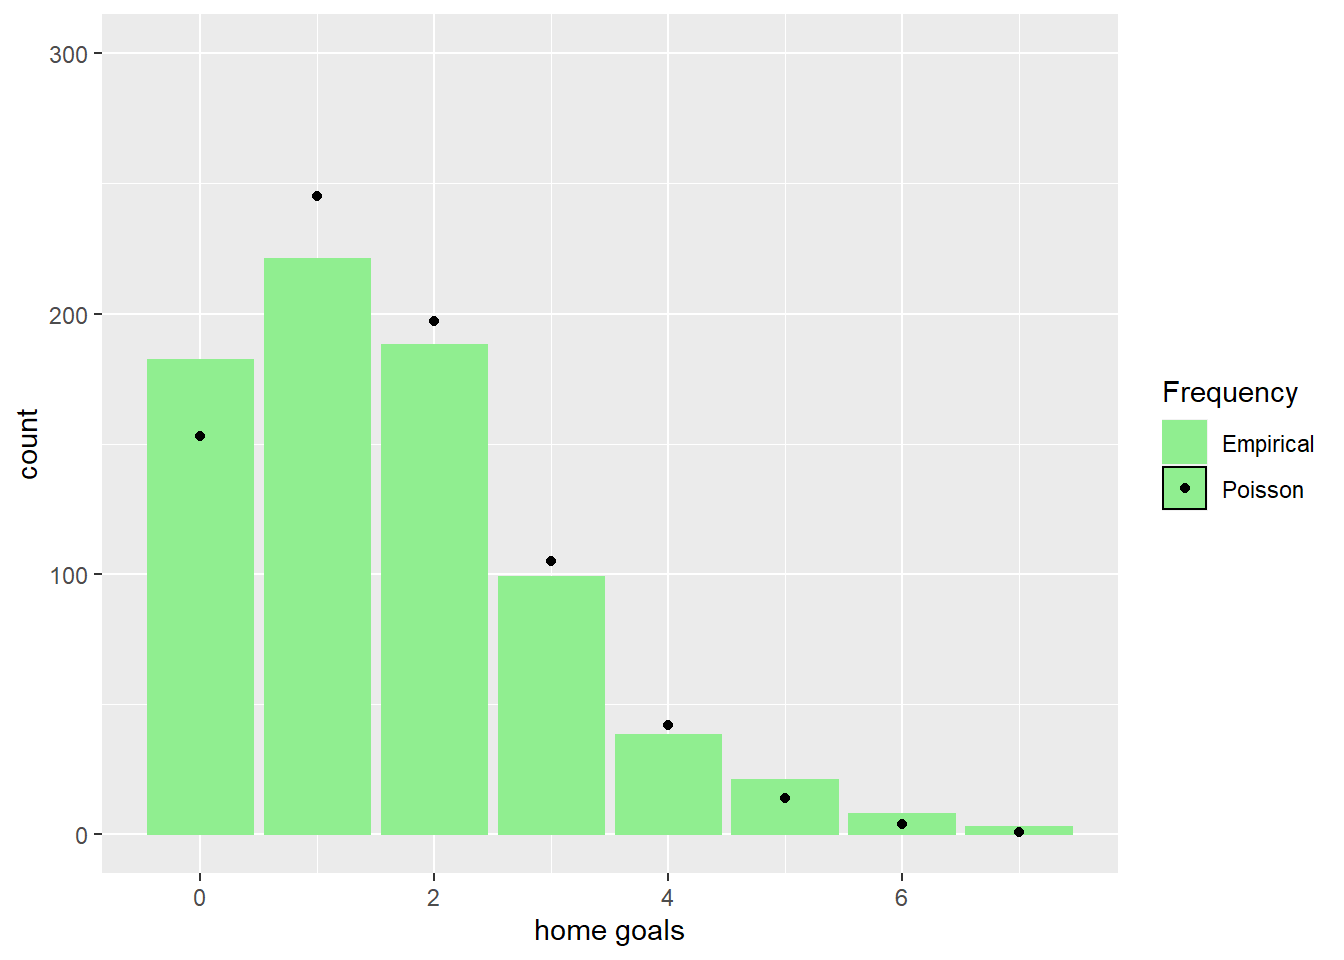
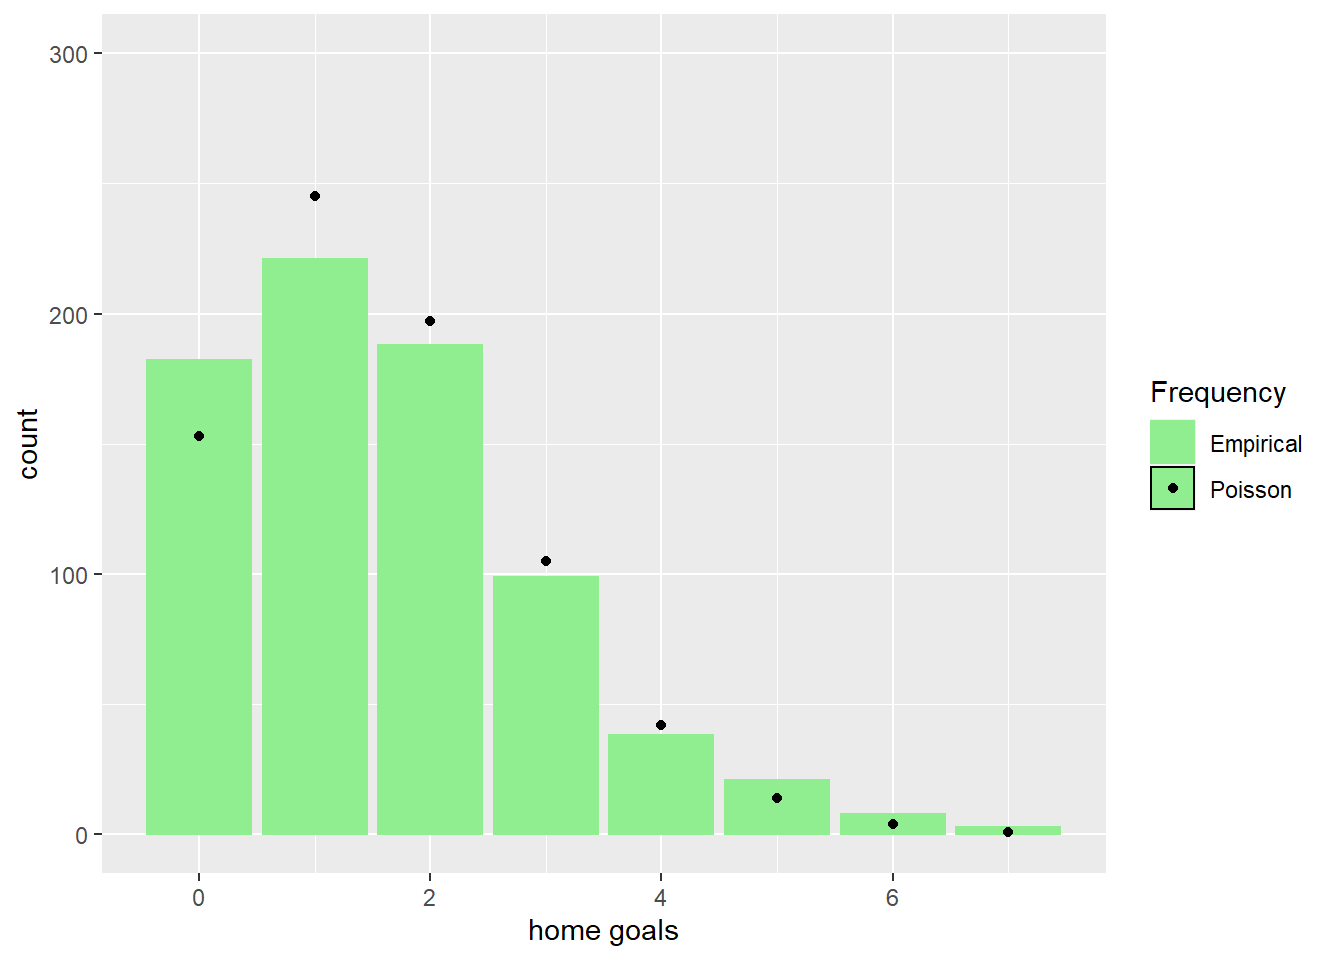
Added Negative Binomial fit.

diff --git a/Spanish-league.html b/Spanish-league.html
@@ -451,24 +451,27 @@ code span.wa { color: #60a0b0; font-weight: bold; font-style: italic; } /* Warni
 </section>
 <section id="histograms" class="level3">
 <h3 class="anchored" data-anchor-id="histograms">Histograms</h3>
+<p>Here we display the frequencies of the number of home and away goals for all football matches. This information can be used to model the probability distribution of the goals scored by the average team in the tournament. We fit a Poisson and a Negative Binomial distribution to the empirical frequencies. We observe that the Negative Binomial distribution provides a better fit, but that is hardly surprising as Poisson is a one-parameter family, while the Negative Binomial is a two-parameter family of distributions.</p>
 <div class="panel-tabset">
-<ul class="nav nav-tabs" role="tablist"><li class="nav-item" role="presentation"><a class="nav-link active" id="tabset-2-1-tab" data-bs-toggle="tab" data-bs-target="#tabset-2-1" role="tab" aria-controls="tabset-2-1" aria-selected="true">Home Goals</a></li><li class="nav-item" role="presentation"><a class="nav-link" id="tabset-2-2-tab" data-bs-toggle="tab" data-bs-target="#tabset-2-2" role="tab" aria-controls="tabset-2-2" aria-selected="false">Away Goals</a></li></ul>
+<ul class="nav nav-tabs" role="tablist"><li class="nav-item" role="presentation"><a class="nav-link active" id="tabset-2-1-tab" data-bs-toggle="tab" data-bs-target="#tabset-2-1" role="tab" aria-controls="tabset-2-1" aria-selected="true">Home Goals</a></li><li class="nav-item" role="presentation"><a class="nav-link" id="tabset-2-2-tab" data-bs-toggle="tab" data-bs-target="#tabset-2-2" role="tab" aria-controls="tabset-2-2" aria-selected="false">Away Goals</a></li><li class="nav-item" role="presentation"><a class="nav-link" id="tabset-2-3-tab" data-bs-toggle="tab" data-bs-target="#tabset-2-3" role="tab" aria-controls="tabset-2-3" aria-selected="false">Home Goals</a></li><li class="nav-item" role="presentation"><a class="nav-link" id="tabset-2-4-tab" data-bs-toggle="tab" data-bs-target="#tabset-2-4" role="tab" aria-controls="tabset-2-4" aria-selected="false">Away Goals</a></li></ul>
 <div class="tab-content">
 <div id="tabset-2-1" class="tab-pane active" role="tabpanel" aria-labelledby="tabset-2-1-tab">
 <div class="cell">
 <details>
 <summary>Code</summary>
-<div class="sourceCode cell-code" id="cb18"><pre class="sourceCode r code-with-copy"><code class="sourceCode r"><span id="cb18-1"><a href="#cb18-1" aria-hidden="true" tabindex="-1"></a>g1 <span class="ot">=</span> <span class="fu">ggplot</span>(<span class="at">data =</span> x, <span class="fu">aes</span>(hscore, <span class="at">color =</span> <span class="st">"Empirical"</span>)) <span class="sc">+</span> </span>
+<div class="sourceCode cell-code" id="cb18"><pre class="sourceCode r code-with-copy"><code class="sourceCode r"><span id="cb18-1"><a href="#cb18-1" aria-hidden="true" tabindex="-1"></a>g1 <span class="ot">=</span> <span class="fu">ggplot</span>(<span class="at">data =</span> x, <span class="fu">aes</span>(hscore, <span class="at">color =</span> <span class="st">"Empirical  "</span>)) <span class="sc">+</span> </span>
 <span id="cb18-2"><a href="#cb18-2" aria-hidden="true" tabindex="-1"></a>  <span class="fu">geom_bar</span>(<span class="at">fill =</span> <span class="st">"lightgreen"</span>) <span class="sc">+</span> <span class="fu">labs</span>(<span class="at">x =</span> <span class="st">"home goals"</span>) <span class="sc">+</span></span>
 <span id="cb18-3"><a href="#cb18-3" aria-hidden="true" tabindex="-1"></a>  <span class="fu">scale_y_continuous</span>(<span class="at">limits =</span> <span class="fu">c</span>(<span class="dv">0</span>,<span class="dv">300</span>))</span>
 <span id="cb18-4"><a href="#cb18-4" aria-hidden="true" tabindex="-1"></a></span>
 <span id="cb18-5"><a href="#cb18-5" aria-hidden="true" tabindex="-1"></a>fit1 <span class="ot">=</span> MASS<span class="sc">::</span><span class="fu">fitdistr</span>(x<span class="sc">$</span>hscore, <span class="st">"poisson"</span>)</span>
 <span id="cb18-6"><a href="#cb18-6" aria-hidden="true" tabindex="-1"></a>hscore_fit <span class="ot">=</span> (<span class="fu">dpois</span>(<span class="dv">0</span><span class="sc">:</span><span class="dv">7</span>, fit1<span class="sc">$</span>estimate) <span class="sc">*</span> <span class="fu">nrow</span>(x)) <span class="sc">|&gt;</span> <span class="fu">round</span>()</span>
 <span id="cb18-7"><a href="#cb18-7" aria-hidden="true" tabindex="-1"></a></span>
-<span id="cb18-8"><a href="#cb18-8" aria-hidden="true" tabindex="-1"></a>g1 <span class="sc">+</span> <span class="fu">geom_point</span>(<span class="at">data =</span> <span class="fu">data.frame</span>(<span class="at">goals =</span> <span class="dv">0</span><span class="sc">:</span><span class="dv">7</span>, <span class="at">count =</span> hscore_fit), <span class="fu">aes</span>(goals, count, <span class="at">color =</span> <span class="st">"Poisson"</span>)) <span class="sc">+</span></span>
-<span id="cb18-9"><a href="#cb18-9" aria-hidden="true" tabindex="-1"></a>  <span class="fu">scale_color_manual</span>(<span class="at">name=</span><span class="st">'Frequency'</span>,</span>
-<span id="cb18-10"><a href="#cb18-10" aria-hidden="true" tabindex="-1"></a>                     <span class="at">breaks=</span><span class="fu">c</span>(<span class="st">'Empirical'</span>, <span class="st">'Poisson'</span>),</span>
-<span id="cb18-11"><a href="#cb18-11" aria-hidden="true" tabindex="-1"></a>                     <span class="at">values=</span><span class="fu">c</span>(<span class="st">'Empirical'</span> <span class="ot">=</span> <span class="st">'lightgreen'</span>, <span class="st">'Poisson'</span> <span class="ot">=</span> <span class="st">'black'</span>))</span></code><button title="Copy to Clipboard" class="code-copy-button"><i class="bi"></i></button></pre></div>
+<span id="cb18-8"><a href="#cb18-8" aria-hidden="true" tabindex="-1"></a></span>
+<span id="cb18-9"><a href="#cb18-9" aria-hidden="true" tabindex="-1"></a>g1 <span class="ot">=</span> g1 <span class="sc">+</span> <span class="fu">geom_point</span>(<span class="at">data =</span> <span class="fu">data.frame</span>(<span class="at">goals =</span> <span class="dv">0</span><span class="sc">:</span><span class="dv">7</span>, <span class="at">count =</span> hscore_fit), <span class="fu">aes</span>(goals, count, <span class="at">color =</span> <span class="st">"Poisson"</span>)) </span>
+<span id="cb18-10"><a href="#cb18-10" aria-hidden="true" tabindex="-1"></a></span>
+<span id="cb18-11"><a href="#cb18-11" aria-hidden="true" tabindex="-1"></a>g1 <span class="sc">+</span> <span class="fu">scale_color_manual</span>(<span class="at">name=</span><span class="st">'Frequency'</span>,</span>
+<span id="cb18-12"><a href="#cb18-12" aria-hidden="true" tabindex="-1"></a>              <span class="at">breaks=</span><span class="fu">c</span>(<span class="st">'Empirical  '</span>, <span class="st">'Poisson'</span>),</span>
+<span id="cb18-13"><a href="#cb18-13" aria-hidden="true" tabindex="-1"></a>              <span class="at">values=</span><span class="fu">c</span>(<span class="st">'Empirical  '</span> <span class="ot">=</span> <span class="st">'lightgreen'</span>, <span class="st">'Poisson'</span> <span class="ot">=</span> <span class="st">'black'</span>))</span></code><button title="Copy to Clipboard" class="code-copy-button"><i class="bi"></i></button></pre></div>
 </details>
 <div class="cell-output-display">
 <p><img src="Spanish-league_files/figure-html/unnamed-chunk-10-1.png" class="img-fluid" width="672"></p>
@@ -479,20 +482,55 @@ code span.wa { color: #60a0b0; font-weight: bold; font-style: italic; } /* Warni
 <div class="cell">
 <details>
 <summary>Code</summary>
-<div class="sourceCode cell-code" id="cb19"><pre class="sourceCode r code-with-copy"><code class="sourceCode r"><span id="cb19-1"><a href="#cb19-1" aria-hidden="true" tabindex="-1"></a>g2 <span class="ot">=</span> <span class="fu">ggplot</span>(<span class="at">data =</span> x, <span class="fu">aes</span>(ascore, <span class="at">color =</span> <span class="st">"Empirical"</span>)) <span class="sc">+</span> </span>
+<div class="sourceCode cell-code" id="cb19"><pre class="sourceCode r code-with-copy"><code class="sourceCode r"><span id="cb19-1"><a href="#cb19-1" aria-hidden="true" tabindex="-1"></a>g2 <span class="ot">=</span> <span class="fu">ggplot</span>(<span class="at">data =</span> x, <span class="fu">aes</span>(ascore, <span class="at">color =</span> <span class="st">"Empirical  "</span>)) <span class="sc">+</span> </span>
 <span id="cb19-2"><a href="#cb19-2" aria-hidden="true" tabindex="-1"></a>  <span class="fu">geom_bar</span>(<span class="at">fill =</span> <span class="st">"lightgreen"</span>) <span class="sc">+</span> <span class="fu">labs</span>(<span class="at">x =</span> <span class="st">"away goals"</span>) <span class="sc">+</span></span>
 <span id="cb19-3"><a href="#cb19-3" aria-hidden="true" tabindex="-1"></a>  <span class="fu">scale_y_continuous</span>(<span class="at">limits =</span> <span class="fu">c</span>(<span class="dv">0</span>,<span class="dv">300</span>))</span>
 <span id="cb19-4"><a href="#cb19-4" aria-hidden="true" tabindex="-1"></a></span>
 <span id="cb19-5"><a href="#cb19-5" aria-hidden="true" tabindex="-1"></a>fit2 <span class="ot">=</span> MASS<span class="sc">::</span><span class="fu">fitdistr</span>(x<span class="sc">$</span>ascore, <span class="st">"poisson"</span>)</span>
 <span id="cb19-6"><a href="#cb19-6" aria-hidden="true" tabindex="-1"></a>ascore_fit <span class="ot">=</span> (<span class="fu">dpois</span>(<span class="dv">0</span><span class="sc">:</span><span class="dv">7</span>, fit2<span class="sc">$</span>estimate) <span class="sc">*</span> <span class="fu">nrow</span>(x)) <span class="sc">|&gt;</span> <span class="fu">round</span>()</span>
 <span id="cb19-7"><a href="#cb19-7" aria-hidden="true" tabindex="-1"></a></span>
-<span id="cb19-8"><a href="#cb19-8" aria-hidden="true" tabindex="-1"></a>g2 <span class="sc">+</span> <span class="fu">geom_point</span>(<span class="at">data =</span> <span class="fu">data.frame</span>(<span class="at">goals =</span> <span class="dv">0</span><span class="sc">:</span><span class="dv">7</span>, <span class="at">count =</span> ascore_fit), <span class="fu">aes</span>(goals, count, <span class="at">color =</span> <span class="st">"Poisson"</span>)) <span class="sc">+</span></span>
-<span id="cb19-9"><a href="#cb19-9" aria-hidden="true" tabindex="-1"></a>  <span class="fu">scale_color_manual</span>(<span class="at">name=</span><span class="st">'Frequency'</span>,</span>
-<span id="cb19-10"><a href="#cb19-10" aria-hidden="true" tabindex="-1"></a>                     <span class="at">breaks=</span><span class="fu">c</span>(<span class="st">'Empirical'</span>, <span class="st">'Poisson'</span>),</span>
-<span id="cb19-11"><a href="#cb19-11" aria-hidden="true" tabindex="-1"></a>                     <span class="at">values=</span><span class="fu">c</span>(<span class="st">'Empirical'</span><span class="ot">=</span><span class="st">'lightgreen'</span>, <span class="st">'Poisson'</span><span class="ot">=</span><span class="st">'black'</span>))</span></code><button title="Copy to Clipboard" class="code-copy-button"><i class="bi"></i></button></pre></div>
+<span id="cb19-8"><a href="#cb19-8" aria-hidden="true" tabindex="-1"></a>g2 <span class="ot">=</span> g2 <span class="sc">+</span> <span class="fu">geom_point</span>(<span class="at">data =</span> <span class="fu">data.frame</span>(<span class="at">goals =</span> <span class="dv">0</span><span class="sc">:</span><span class="dv">7</span>, <span class="at">count =</span> ascore_fit), <span class="fu">aes</span>(goals, count, <span class="at">color =</span> <span class="st">"Poisson"</span>)) </span>
+<span id="cb19-9"><a href="#cb19-9" aria-hidden="true" tabindex="-1"></a></span>
+<span id="cb19-10"><a href="#cb19-10" aria-hidden="true" tabindex="-1"></a>g2 <span class="sc">+</span> <span class="fu">scale_color_manual</span>(<span class="at">name=</span><span class="st">'Frequency'</span>,</span>
+<span id="cb19-11"><a href="#cb19-11" aria-hidden="true" tabindex="-1"></a>                     <span class="at">breaks=</span><span class="fu">c</span>(<span class="st">'Empirical  '</span>, <span class="st">'Poisson'</span>),</span>
+<span id="cb19-12"><a href="#cb19-12" aria-hidden="true" tabindex="-1"></a>                     <span class="at">values=</span><span class="fu">c</span>(<span class="st">'Empirical  '</span><span class="ot">=</span><span class="st">'lightgreen'</span>, <span class="st">'Poisson'</span><span class="ot">=</span><span class="st">'black'</span>))</span></code><button title="Copy to Clipboard" class="code-copy-button"><i class="bi"></i></button></pre></div>
 </details>
 <div class="cell-output-display">
 <p><img src="Spanish-league_files/figure-html/unnamed-chunk-11-1.png" class="img-fluid" width="672"></p>
+</div>
+</div>
+</div>
+<div id="tabset-2-3" class="tab-pane" role="tabpanel" aria-labelledby="tabset-2-3-tab">
+<div class="cell">
+<details>
+<summary>Code</summary>
+<div class="sourceCode cell-code" id="cb20"><pre class="sourceCode r code-with-copy"><code class="sourceCode r"><span id="cb20-1"><a href="#cb20-1" aria-hidden="true" tabindex="-1"></a>fit3 <span class="ot">=</span> MASS<span class="sc">::</span><span class="fu">fitdistr</span>(x<span class="sc">$</span>hscore, <span class="st">"negative binomial"</span>)</span>
+<span id="cb20-2"><a href="#cb20-2" aria-hidden="true" tabindex="-1"></a>hscore_fit3 <span class="ot">=</span> (<span class="fu">dnbinom</span>(<span class="dv">0</span><span class="sc">:</span><span class="dv">7</span>, <span class="at">size =</span> fit3<span class="sc">$</span>estimate[<span class="st">'size'</span>], <span class="at">mu =</span> fit3<span class="sc">$</span>estimate[<span class="st">'mu'</span>]) <span class="sc">*</span> <span class="fu">nrow</span>(x)) <span class="sc">|&gt;</span> <span class="fu">round</span>()</span>
+<span id="cb20-3"><a href="#cb20-3" aria-hidden="true" tabindex="-1"></a></span>
+<span id="cb20-4"><a href="#cb20-4" aria-hidden="true" tabindex="-1"></a>g1 <span class="sc">+</span> <span class="fu">geom_point</span>(<span class="at">data =</span> <span class="fu">data.frame</span>(<span class="at">goals =</span> <span class="dv">0</span><span class="sc">:</span><span class="dv">7</span>, <span class="at">count =</span> hscore_fit3), <span class="fu">aes</span>(goals, count, <span class="at">color =</span> <span class="st">"Neg Binom"</span>)) <span class="sc">+</span> </span>
+<span id="cb20-5"><a href="#cb20-5" aria-hidden="true" tabindex="-1"></a>  <span class="fu">scale_color_manual</span>(<span class="at">name=</span><span class="st">'Frequency'</span>,</span>
+<span id="cb20-6"><a href="#cb20-6" aria-hidden="true" tabindex="-1"></a>              <span class="at">breaks=</span><span class="fu">c</span>(<span class="st">'Empirical  '</span>,  <span class="st">'Poisson'</span>, <span class="st">"Neg Binom"</span>),</span>
+<span id="cb20-7"><a href="#cb20-7" aria-hidden="true" tabindex="-1"></a>              <span class="at">values=</span><span class="fu">c</span>(<span class="st">'Empirical  '</span> <span class="ot">=</span> <span class="st">'lightgreen'</span>, <span class="st">'Poisson'</span> <span class="ot">=</span> <span class="st">'black'</span>, <span class="st">"Neg Binom"</span> <span class="ot">=</span> <span class="st">'red'</span>))</span></code><button title="Copy to Clipboard" class="code-copy-button"><i class="bi"></i></button></pre></div>
+</details>
+<div class="cell-output-display">
+<p><img src="Spanish-league_files/figure-html/unnamed-chunk-12-1.png" class="img-fluid" width="672"></p>
+</div>
+</div>
+</div>
+<div id="tabset-2-4" class="tab-pane" role="tabpanel" aria-labelledby="tabset-2-4-tab">
+<div class="cell">
+<details>
+<summary>Code</summary>
+<div class="sourceCode cell-code" id="cb21"><pre class="sourceCode r code-with-copy"><code class="sourceCode r"><span id="cb21-1"><a href="#cb21-1" aria-hidden="true" tabindex="-1"></a>fit4 <span class="ot">=</span> MASS<span class="sc">::</span><span class="fu">fitdistr</span>(x<span class="sc">$</span>ascore, <span class="st">"negative binomial"</span>)</span>
+<span id="cb21-2"><a href="#cb21-2" aria-hidden="true" tabindex="-1"></a>ascore_fit4 <span class="ot">=</span> (<span class="fu">dnbinom</span>(<span class="dv">0</span><span class="sc">:</span><span class="dv">7</span>, <span class="at">size =</span> fit4<span class="sc">$</span>estimate[<span class="st">'size'</span>], <span class="at">mu =</span> fit4<span class="sc">$</span>estimate[<span class="st">'mu'</span>]) <span class="sc">*</span> <span class="fu">nrow</span>(x)) <span class="sc">|&gt;</span> <span class="fu">round</span>()</span>
+<span id="cb21-3"><a href="#cb21-3" aria-hidden="true" tabindex="-1"></a></span>
+<span id="cb21-4"><a href="#cb21-4" aria-hidden="true" tabindex="-1"></a>g2 <span class="sc">+</span> <span class="fu">geom_point</span>(<span class="at">data =</span> <span class="fu">data.frame</span>(<span class="at">goals =</span> <span class="dv">0</span><span class="sc">:</span><span class="dv">7</span>, <span class="at">count =</span> ascore_fit4), <span class="fu">aes</span>(goals, count, <span class="at">color =</span> <span class="st">"Neg Binom"</span>)) <span class="sc">+</span> </span>
+<span id="cb21-5"><a href="#cb21-5" aria-hidden="true" tabindex="-1"></a>  <span class="fu">scale_color_manual</span>(<span class="at">name=</span><span class="st">'Frequency'</span>,</span>
+<span id="cb21-6"><a href="#cb21-6" aria-hidden="true" tabindex="-1"></a>              <span class="at">breaks=</span><span class="fu">c</span>(<span class="st">'Empirical  '</span>, <span class="st">'Poisson'</span>, <span class="st">"Neg Binom"</span>),</span>
+<span id="cb21-7"><a href="#cb21-7" aria-hidden="true" tabindex="-1"></a>              <span class="at">values=</span><span class="fu">c</span>(<span class="st">'Empirical  '</span> <span class="ot">=</span> <span class="st">'lightgreen'</span>, <span class="st">'Poisson'</span> <span class="ot">=</span> <span class="st">'black'</span>, <span class="st">"Neg Binom"</span> <span class="ot">=</span> <span class="st">'red'</span>))</span></code><button title="Copy to Clipboard" class="code-copy-button"><i class="bi"></i></button></pre></div>
+</details>
+<div class="cell-output-display">
+<p><img src="Spanish-league_files/figure-html/unnamed-chunk-13-1.png" class="img-fluid" width="672"></p>
 </div>
 </div>
 </div>
@@ -500,7 +538,7 @@ code span.wa { color: #60a0b0; font-weight: bold; font-style: italic; } /* Warni
 </div>
 <div id="exr-neg_bin" class="theorem exercise">
 <p><span class="theorem-title"><strong>Exercise 1 </strong></span></p>
-<p>Repeat the above analysis with the Negative Binomial distribution instead of Poisson.</p>
+<p>Repeat the above analysis with the Weibull distribution as well.</p>
 </div>
 </section>
 </section>
